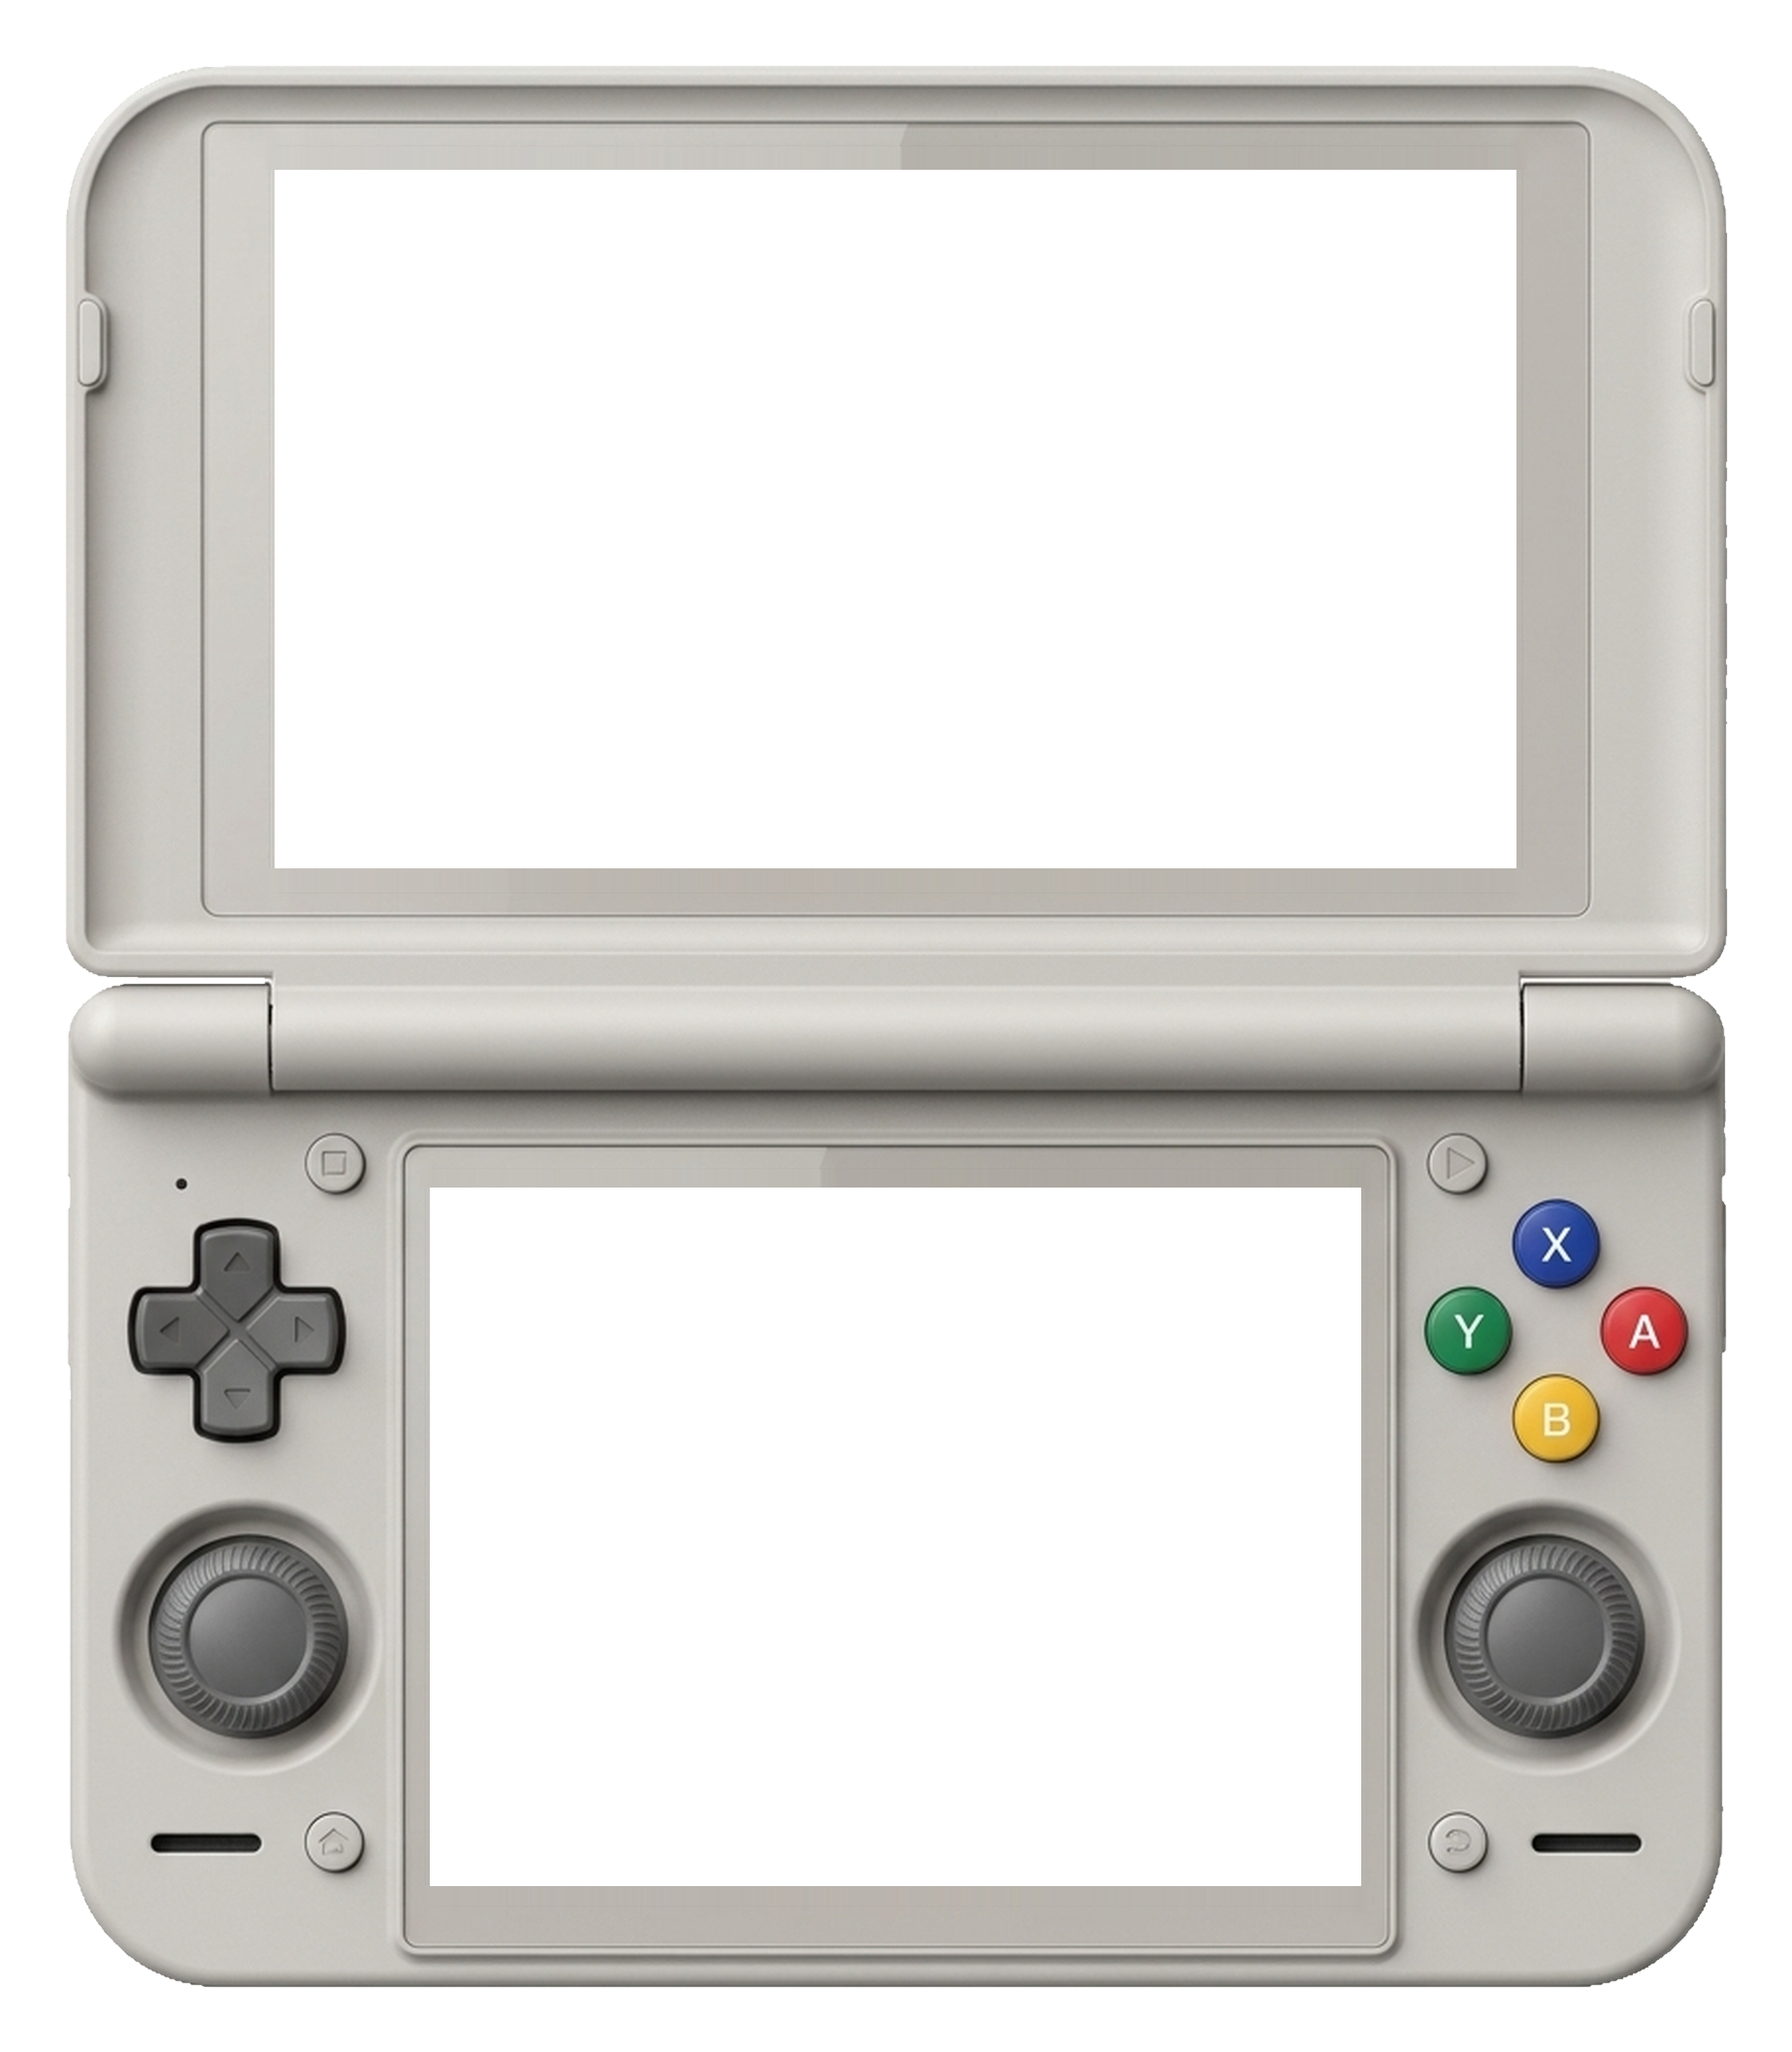
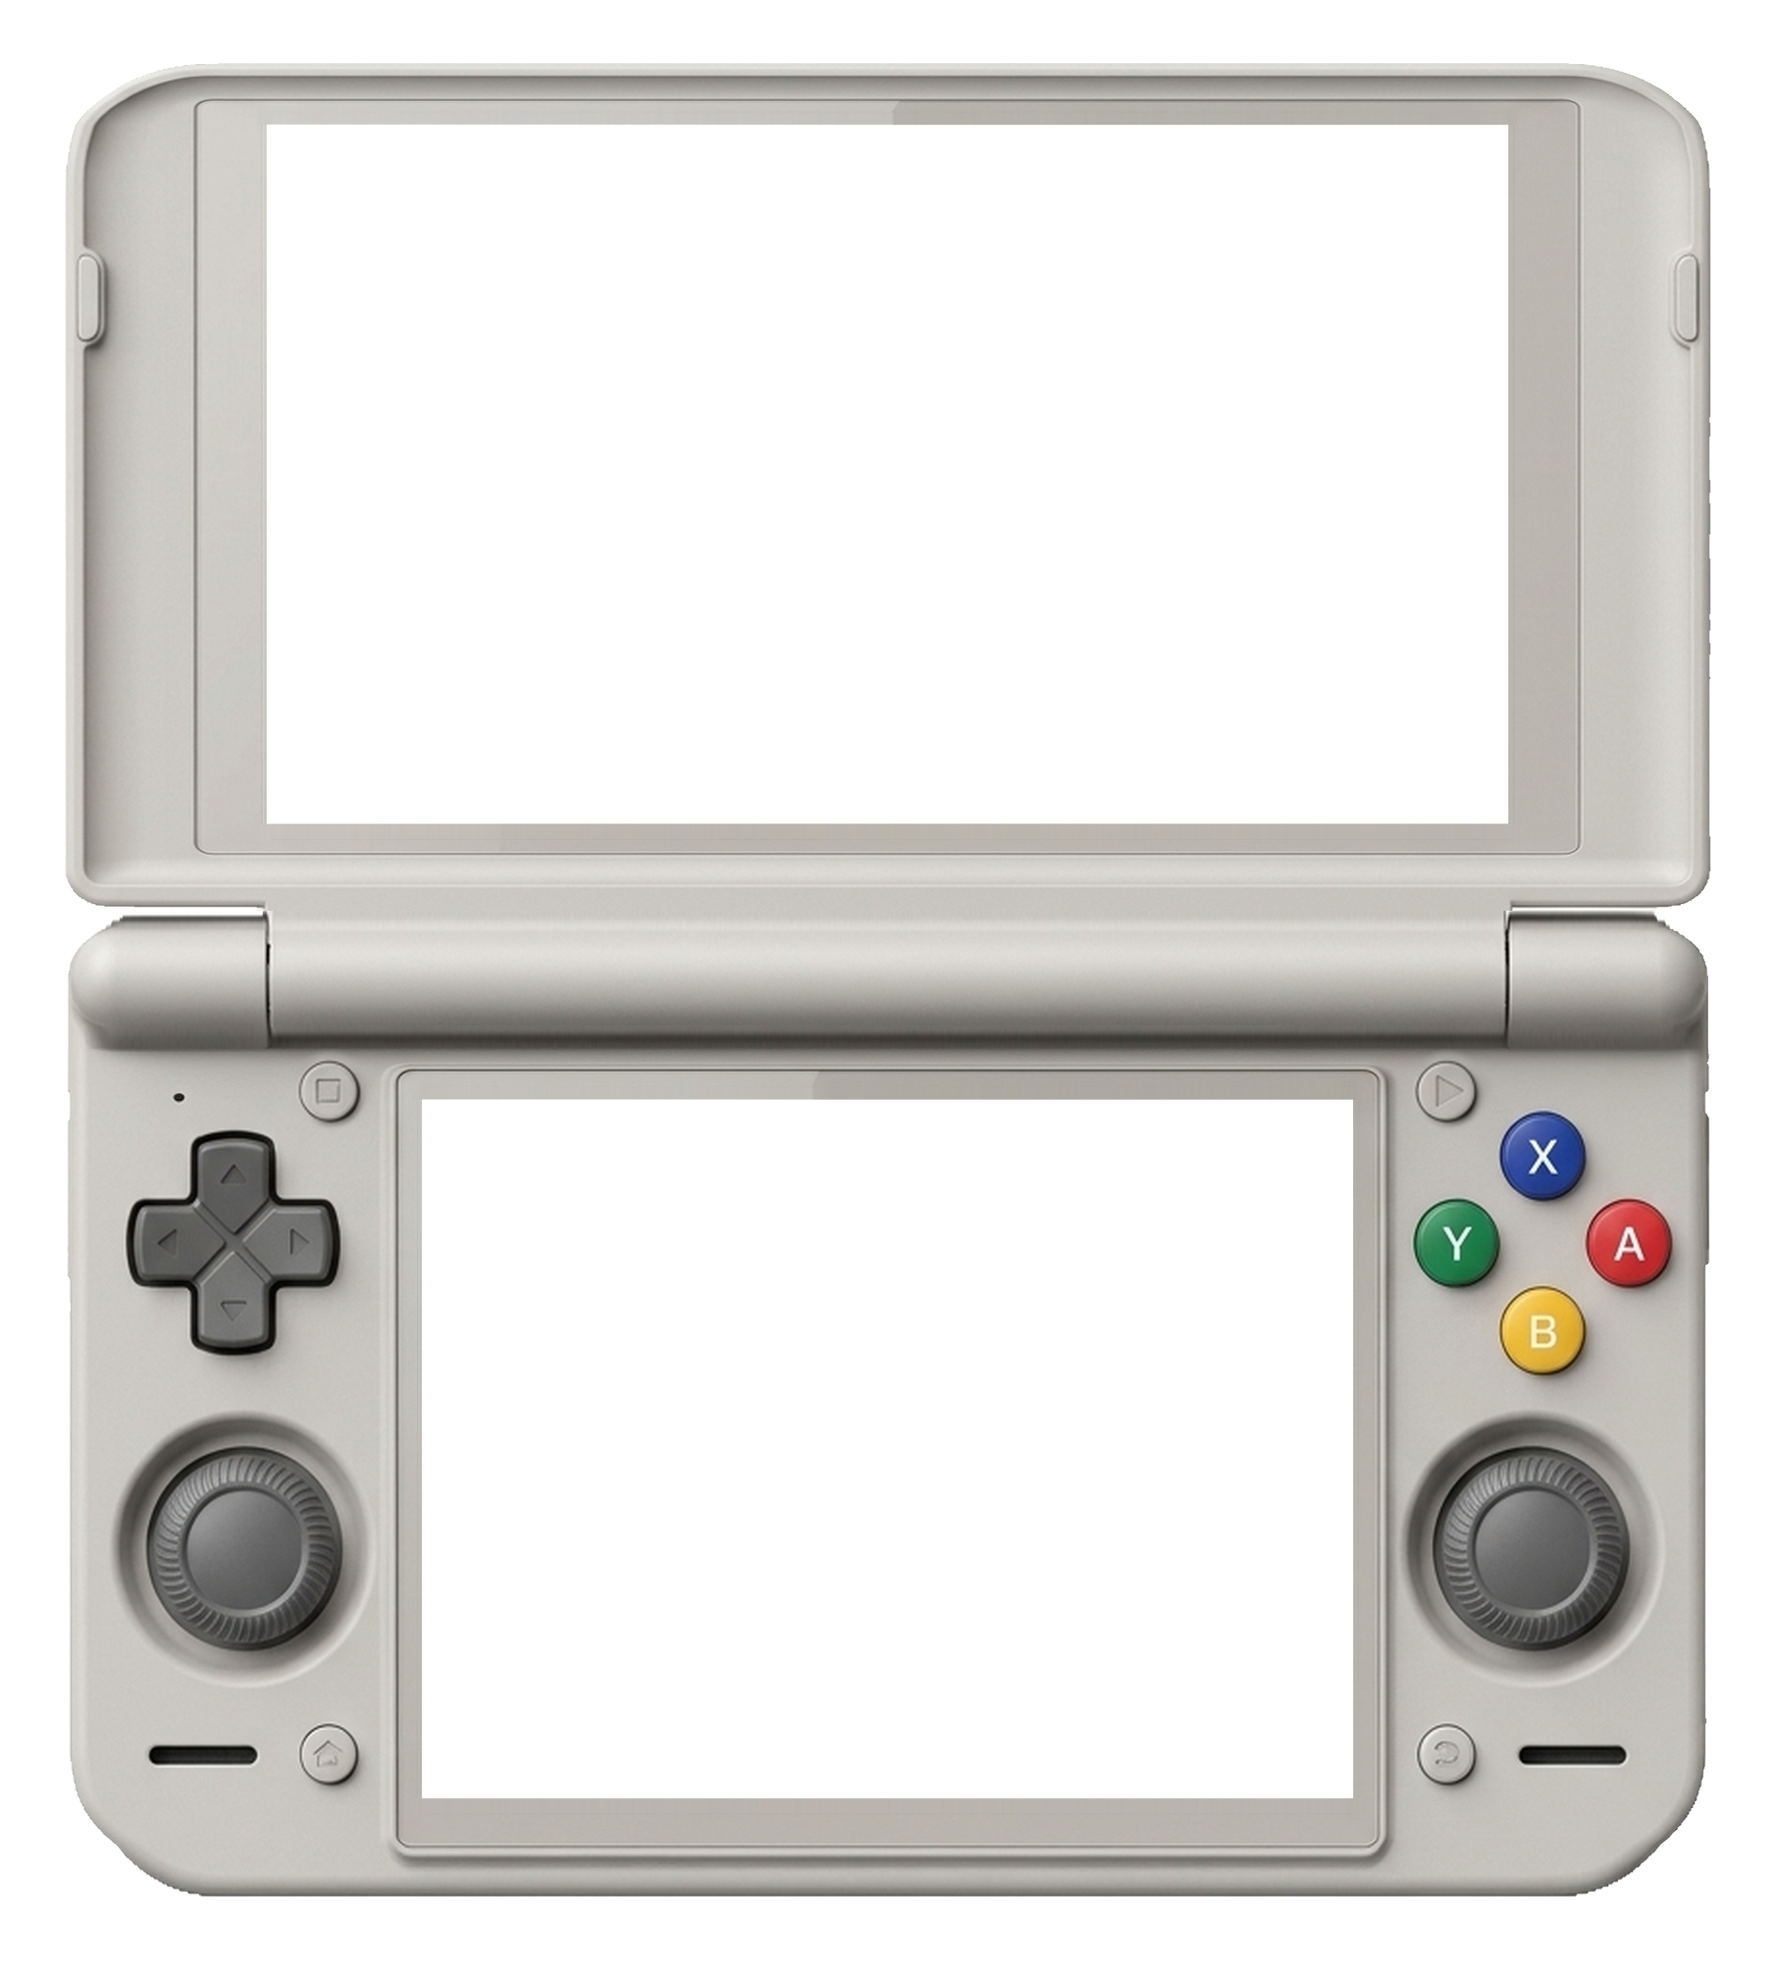
Correct display bezel and panel proportions from device photos

Changed region(s): [[0.0311, 0.0311, 0.9656, 0.996], [0.0311, 0.1245, 0.0623, 0.2179], [0.9344, 0.1245, 0.9656, 0.1868]]

diff --git a/docs/SCREENSHOTS.md b/docs/SCREENSHOTS.md
@@ -2,6 +2,6 @@
 
 `screenshots/upper-display.png` and `lower-display.png` are original RP Duo display captures, collected during a local Gemma 4 E2B demonstration. Values shown describe one short run, not a performance guarantee.
 
-`screenshots/rp-duo-frame.png` is the user-provided device frame with its transparent outer edge cleaned. `screenshots/rp-duo-preview.png` contains the original display captures, scaled proportionally with Lanczos and pasted into the transparent screen windows. Neither screenshot is cropped, stretched or generatively redrawn.
+`screenshots/rp-duo-frame.png` is the user-provided device frame with its transparent outer edge cleaned and its panel/bezel proportions adjusted against the user’s real-device photographs. `screenshots/rp-duo-preview.png` contains the original display captures, scaled proportionally with Lanczos and pasted into the transparent screen windows. Neither screenshot is cropped, stretched or generatively redrawn.
 
 Window coordinates are stored in `screenshots/rp-duo-frame.json`. Both windows are 720 px high: the upper is 1280×720 and the lower is 960×720. The composed window pixels were checked against independently resized source captures.
